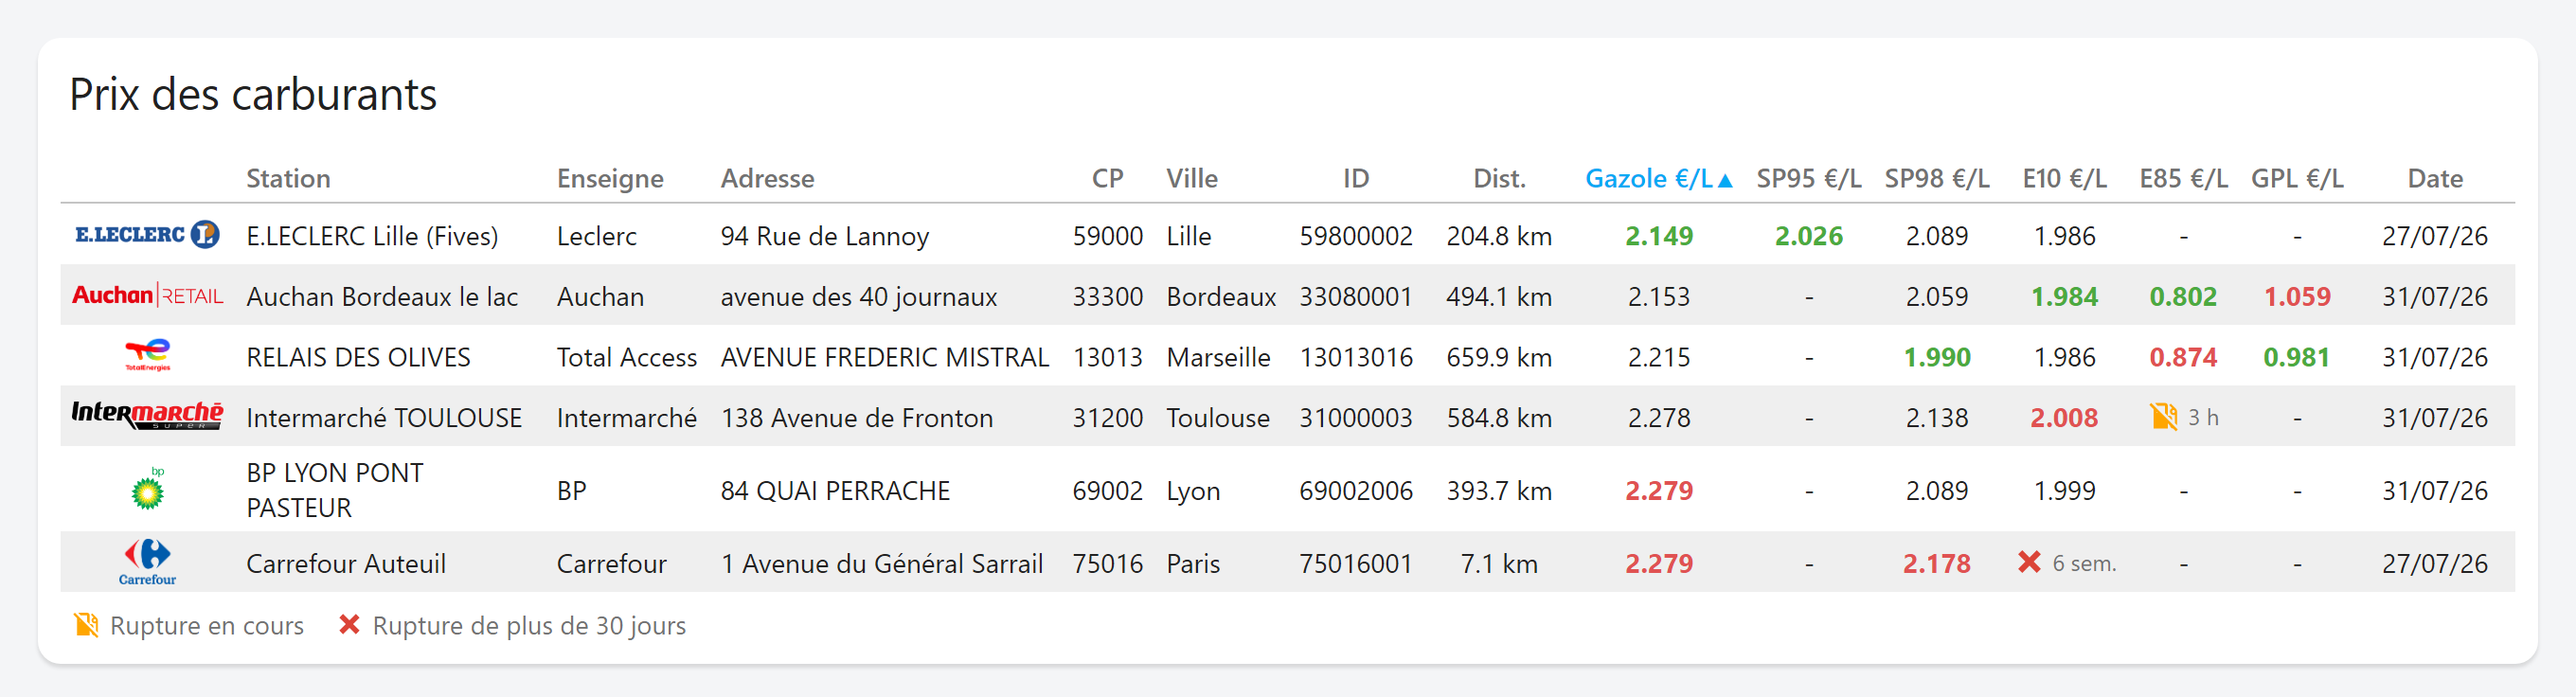
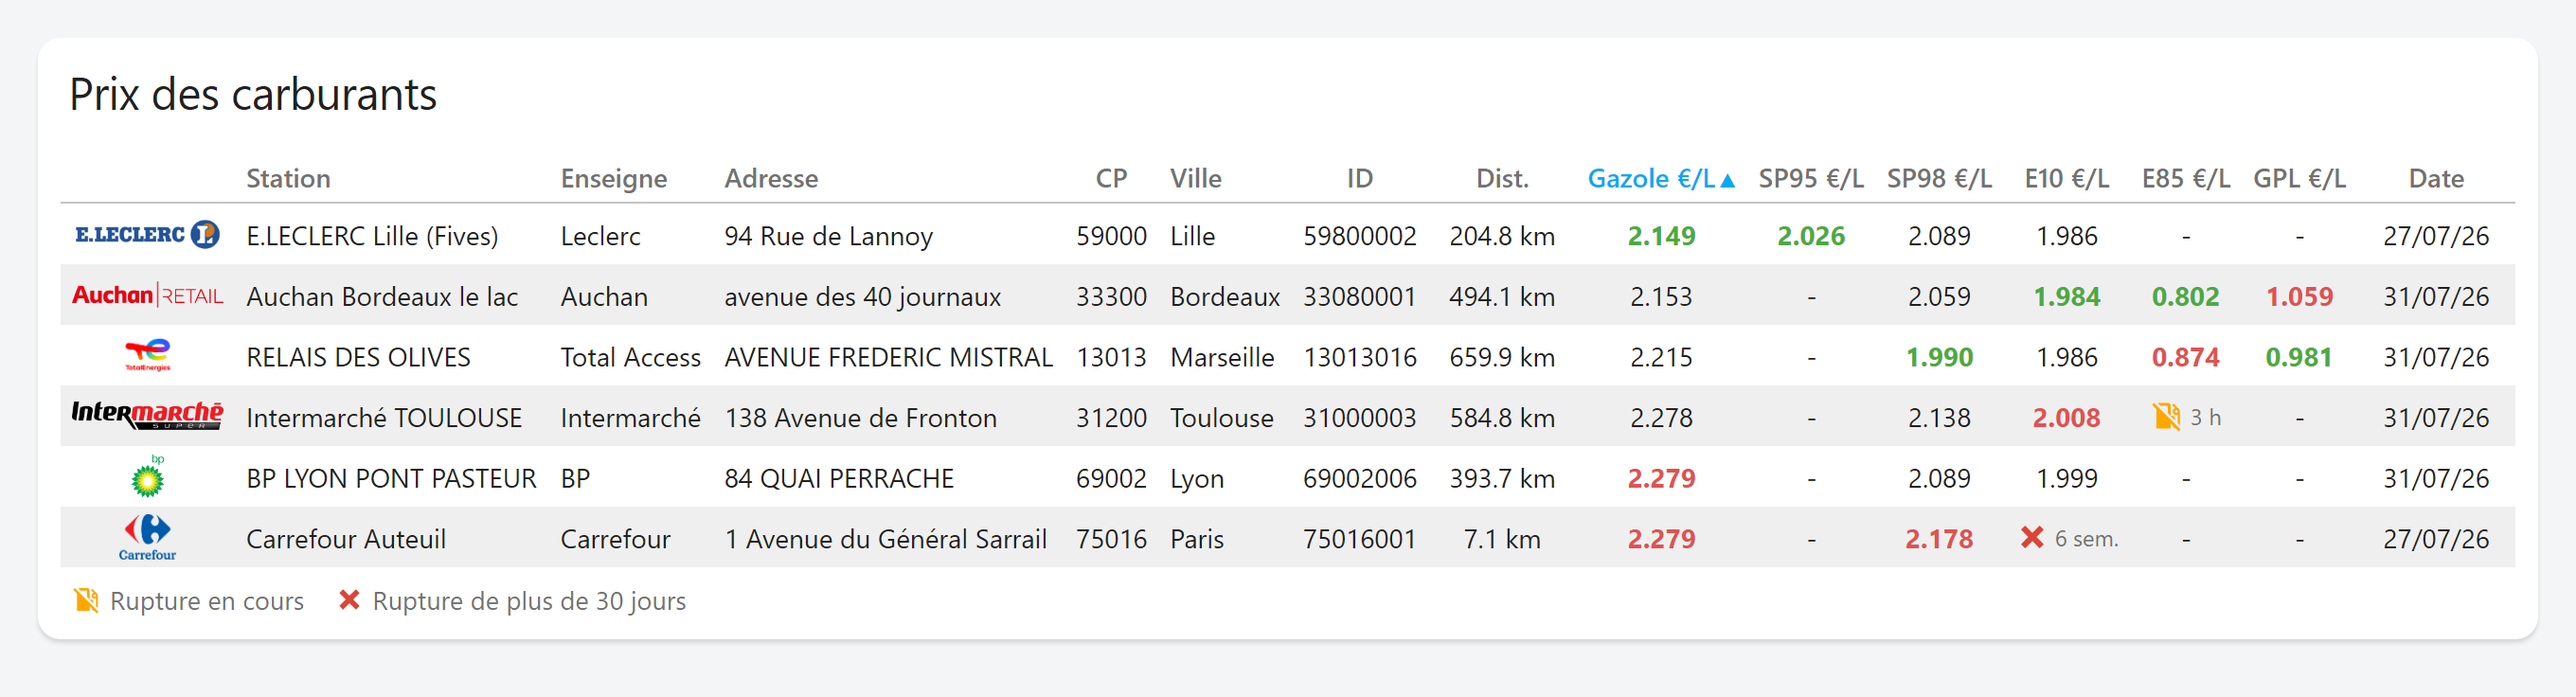
1.0.8 : date de version et captures du README
Les captures montrent les noms de station sur une ligne.

diff --git a/CHANGELOG.md b/CHANGELOG.md
@@ -2,7 +2,7 @@
 
 All notable changes to this project are documented in this file.
 
-## [1.0.8] - 2026-09-28
+## [1.0.8] - 2026-09-29
 
 ### Added
 - **`search.show_fuels` masque les pastilles de carburant de la recherche.** Avec `false`, la rangée disparaît et la recherche porte sur tous les carburants disponibles. La préférence enregistrée (`search_off`) est ignorée par cette carte, sans être effacée : un carburant décoché autrefois filtrerait sinon les résultats sans que rien à l'écran ne l'explique, et le choix vaut toujours pour les cartes qui affichent les pastilles. `show_fuels` entre dans la clef de partage des recherches : deux cartes qui ne diffèrent que par ce réglage ne se contredisent plus sur les résultats. Réglable dans l'éditeur, section Recherche à proximité, dont le résumé le signale. Suggéré sur le forum HACF.
